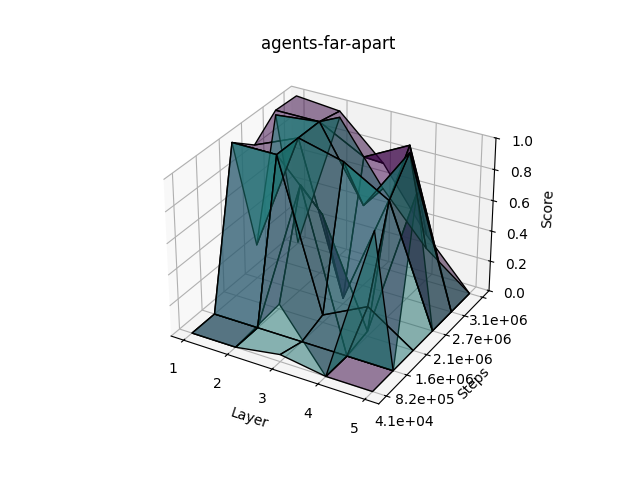
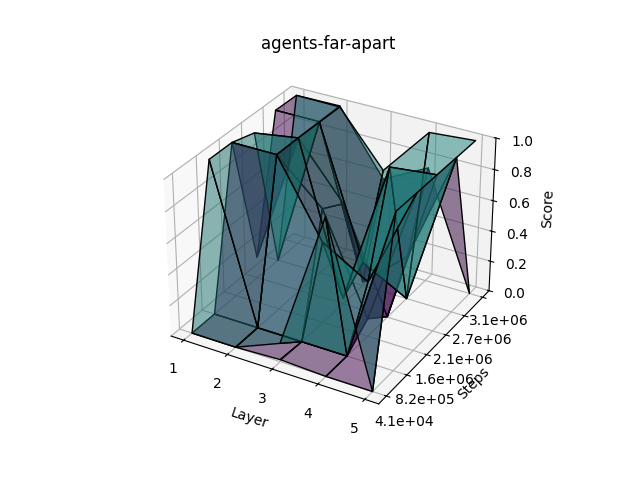
feat: some gui changes

Changed region(s): [[0.2812, 0.1875, 0.75, 0.8125]]

diff --git a/gui/src/components/result_frame.py b/gui/src/components/result_frame.py
@@ -11,16 +11,28 @@ class ResultFrame(ctk.CTkFrame):
         self.grid_rowconfigure(1, weight=3)
 
         self.result_viewer_frame = ResultViewerFrame(self)
-        self.result_viewer_frame.grid(row=1, column=0, padx=10, pady=10, sticky="nswe")
+        self.result_viewer_frame.grid(row=0, column=0, padx=10, pady=10, sticky="nswe")
 
         self.result_info_frame = ResultInfoFrame(self)
-        self.result_info_frame.grid(row=0, column=1, padx=10, pady=10, sticky="nswe")
 
     def update_result(
         self,
-        q_values: bool,
+        show_q_values: bool,
+        show_tcav: bool = False,
+        binary_concept_score: dict[str, float] | None = None,
+        tcav_score: dict[str, float] | None = None,
     ):
-        self.result_viewer_frame.update_result(q_values)
+        self.result_viewer_frame.update_result(show_q_values)
+        self.result_info_frame.update_concept(
+            show_tcav, binary_concept_score, tcav_score
+        )
+
+        if not show_tcav:
+            self.result_info_frame.grid_forget()
+        else:
+            self.result_info_frame.grid(
+                row=0, column=1, padx=10, pady=10, sticky="nswe"
+            )
 
 
 class ResultInfoFrame(ctk.CTkFrame):
@@ -29,6 +41,17 @@ class ResultInfoFrame(ctk.CTkFrame):
         self.grid_columnconfigure((0, 1), weight=1)
         self.grid_rowconfigure((0, 1), weight=1)
         self.concept_viewer_frame = ConceptViewerFrame(self)
+        self.concept_viewer_frame.grid(row=0, column=0, padx=10, pady=10, sticky="nswe")
+
+    def update_concept(
+        self,
+        show_tcav: bool,
+        binary_concept_score: dict[str, float] | None,
+        tcav_score: dict[str, float] | None,
+    ):
+        if not show_tcav or binary_concept_score is None or tcav_score is None:
+            return
+        self.concept_viewer_frame.update_concept(binary_concept_score, tcav_score)
 
 
 class ResultViewerFrame(ctk.CTkFrame):
@@ -61,9 +84,20 @@ class ConceptViewerFrame(ctk.CTkFrame):
         super().__init__(master)
         self.grid_columnconfigure((0, 1), weight=1)
         self.grid_rowconfigure((0, 1), weight=1)
+        self.concept_infos = [ctk.CTkLabel(self, text="")]
 
-    def update_concept(self):
-        pass
+    def update_concept(
+        self, binary_concept_score: dict[str, float], tcav_score: dict[str, float]
+    ):
+        concept_infos = []
+        for layer, score in tcav_score.items():
+            concept_infos.append(f"{layer}: {score}")
+
+        self.concept_infos = [
+            ctk.CTkLabel(self, text=concept_info) for concept_info in concept_infos
+        ]
+        for i, concept_info in enumerate(self.concept_infos):
+            concept_info.grid(row=i, column=0, padx=10, pady=10, sticky="nswe")
 
 
 class DoubleViewerFrame(ctk.CTkFrame):

diff --git a/gui/src/utils/model_handler.py b/gui/src/utils/model_handler.py
@@ -1,11 +1,11 @@
 import logging
-import os
 import torch.nn as nn
 
 import gymnasium as gym
 import matplotlib.pyplot as plt
 import numpy as np
 import torch
+from data_handler.src.utils.data import Sample
 
 from environments.gymnasium.wrappers import MultiAgentEnv
 from managers.src.wandb_manager import WandBConfig
@@ -33,40 +33,12 @@ class ModelHandler:
         )
         self.shap_samples = shap_samples
 
-        positive_samples = "random"
-        negative_samples = "negative_samples"
-        self._save_path_cav = "gui/data/cav/"
+        positive_samples = "random.csv"
+        negative_samples = "random_negative.csv"
 
         self._cav = CAV(self._model, positive_samples, negative_samples)
-        self._cavs = self._load_cavs(self._save_path_cav)
-
-        self.tcav_scores = self._tcav_scores(self._cavs)
 
         self.load_model(shap_samples)
-
-    def _tcav_scores(self, cavs: dict) -> dict:
-        for layer, cav in cavs.items():
-            tcav_scores = {}
-            for key, value in cav.items():
-                tcav_scores[key] = self._cav.tcav_score(value)
-                return tcav_scores
-
-    def _save_cavs(self, path: str):
-        if not os.path.exists(path):
-            os.makedirs(path)
-
-        for name, cav in self._cavs.items():
-            for key, value in cav.items():
-                np.save(f"{path}/{name}_{key}.npy", value)
-
-    def _load_cavs(self, path: str) -> dict:
-        cavs = {}
-        for name in os.listdir(path):
-            cav = {}
-            for key in os.listdir(f"{path}/{name}"):
-                cav[key] = np.load(f"{path}/{name}/{key}")
-                self._cavs[name] = cav
-        return cavs
 
     @property
     def _model(
@@ -137,6 +109,11 @@ class ModelHandler:
             folderpath="gui/src/assets/",
             filename=filename,
         )
+
+    def generate_cav(self, state: np.ndarray):
+        state_samples = [Sample("0", state, "0")]
+        cavs, binary_concept_scores, tcav_scores = self._cav.compute_cavs(state_samples)
+        return cavs, binary_concept_scores, tcav_scores
 
     def generate_q_values(self, states: np.ndarray):
         for _, state in enumerate(states):

diff --git a/gui/src/app.py b/gui/src/app.py
@@ -21,11 +21,6 @@ class App(customtkinter.CTk):
         self.env_handler.generate()
 
         self.model_handler = ModelHandler("model_20", ["v0", "v1"], shap_samples=10)
-        self.cav = CAV(
-            self.model_handler.dqn,
-            "data/positive_samples.npy",
-            "data/negative_samples.npy",
-        )
 
         state = np.expand_dims(np.array(self.env_handler.env), axis=0)
         self.model_handler.generate_shap(state)
@@ -46,6 +41,7 @@ class App(customtkinter.CTk):
         model_version_numbers: list[str],
         shap_samples: int,
         show_q_values: bool,
+        show_tcav: bool,
     ):
         self._update_env(env)
         state = np.expand_dims(np.array(self.env_handler.env), axis=0)
@@ -55,13 +51,22 @@ class App(customtkinter.CTk):
             self.model_handler.generate_q_values(state)
         self.model_handler.update_shap(shap_samples)
         self.model_handler.generate_shap(state)
-        self.result_frame.update_result(q_values=show_q_values)
+        binary_concept_score = None
+        tcav_score = None
+        if show_tcav:
+            _, binary_concept_score, tcav_score = self.model_handler.generate_cav(state)
+        self.result_frame.update_result(
+            show_q_values=show_q_values,
+            show_tcav=show_tcav,
+            binary_concept_score=binary_concept_score,
+            tcav_score=tcav_score,
+        )
 
     def update_image(
         self,
         show_q_values: bool,
     ):
-        self.result_frame.update_result(q_values=show_q_values)
+        self.result_frame.update_result(show_q_values=show_q_values)
 
     def _update_env(self, env: list[list] | None):
         if env is None:

diff --git a/gui/src/components/configuration_frame.py b/gui/src/components/configuration_frame.py
@@ -39,13 +39,21 @@ class ConfigurationFrame(ctk.CTkFrame):
             row=3, column=0, padx=10, pady=10, sticky="nswe"
         )
 
-        self.checkbox = ctk.CTkCheckBox(
+        self.checkbox_q_values = ctk.CTkCheckBox(
             self,
             text="Show Q-Values",
             command=self.update_image,
             variable=ctk.BooleanVar(value=True),
         )
-        self.checkbox.grid(row=4, column=0, padx=10, pady=10, sticky="nswe")
+        self.checkbox_q_values.grid(row=4, column=0, padx=10, pady=10, sticky="nswe")
+
+        self.checkbox_tcav = ctk.CTkCheckBox(
+            self,
+            text="Show TCAV",
+            command=self.update_image,
+            variable=ctk.BooleanVar(value=False),
+        )
+        self.checkbox_tcav.grid(row=4, column=1, padx=10, pady=10, sticky="nswe")
 
         self.button = ctk.CTkButton(self, text="Update", command=self.update)
         self.button.grid(row=5, column=0, padx=10, pady=10, sticky="nswe")
@@ -55,13 +63,14 @@ class ConfigurationFrame(ctk.CTkFrame):
             self.env_matrix_configuration_frame.get_env_matrix(),
             *self.model_chooser_frame.get_model(),
             self.shap_configuration_frame.get_shap_samples(),
-            show_q_values=self.checkbox.get(),
+            show_q_values=self.checkbox_q_values.get(),
+            show_tcav=self.checkbox_tcav.get(),
         )
         self.env_viewer_frame.update_image()
 
     def update_image(self):
         self.update_image_callback(
-            show_q_values=self.checkbox.get(),
+            show_q_values=self.checkbox_q_values.get(),
         )
 
 

diff --git a/methods/src/cav/cav.py b/methods/src/cav/cav.py
@@ -8,6 +8,9 @@ from sklearn.linear_model import LogisticRegression
 from sklearn.preprocessing import StandardScaler
 
 from data_handler import DataHandler
+from data_handler.src.utils.data import Sample
+
+from typing import Optional
 
 warnings.filterwarnings("ignore", category=ConvergenceWarning)
 
@@ -47,10 +50,18 @@ class CAV:
 
         self._negative_data, self._test_negative_data = negative_data.split(0.7)
 
-    def compute_cavs(self) -> tuple[dict, dict, dict]:
+    def compute_cavs(
+        self, custom_test_data: Optional[list[Sample]] = None
+    ) -> tuple[dict, dict, dict]:
         positive_data, positive_labels = self._positive_data.get_data_lists()
         negative_data, negative_labels = self._negative_data.get_data_lists()
         test_data, test_labels = self._test_positive_data.get_data_lists()
+
+        if custom_test_data:
+            test_data_handler = DataHandler()
+            test_data_handler.load_samples(custom_test_data)
+            test_data, test_labels = test_data_handler.get_data_lists()
+
         positive_activations, positive_output = self._compute_activations(
             positive_data, requires_grad=True
         )

diff --git a/methods/src/cav/__main__.py b/methods/src/cav/__main__.py
@@ -53,4 +53,4 @@ for concept in concept_names:
     cav_scores, tcav_scores, steps = analyse(
         concept, negative_concept, observation_space, action_space
     )
-    plot(concept, tcav_scores, steps)
+    plot(concept, cav_scores, steps)
